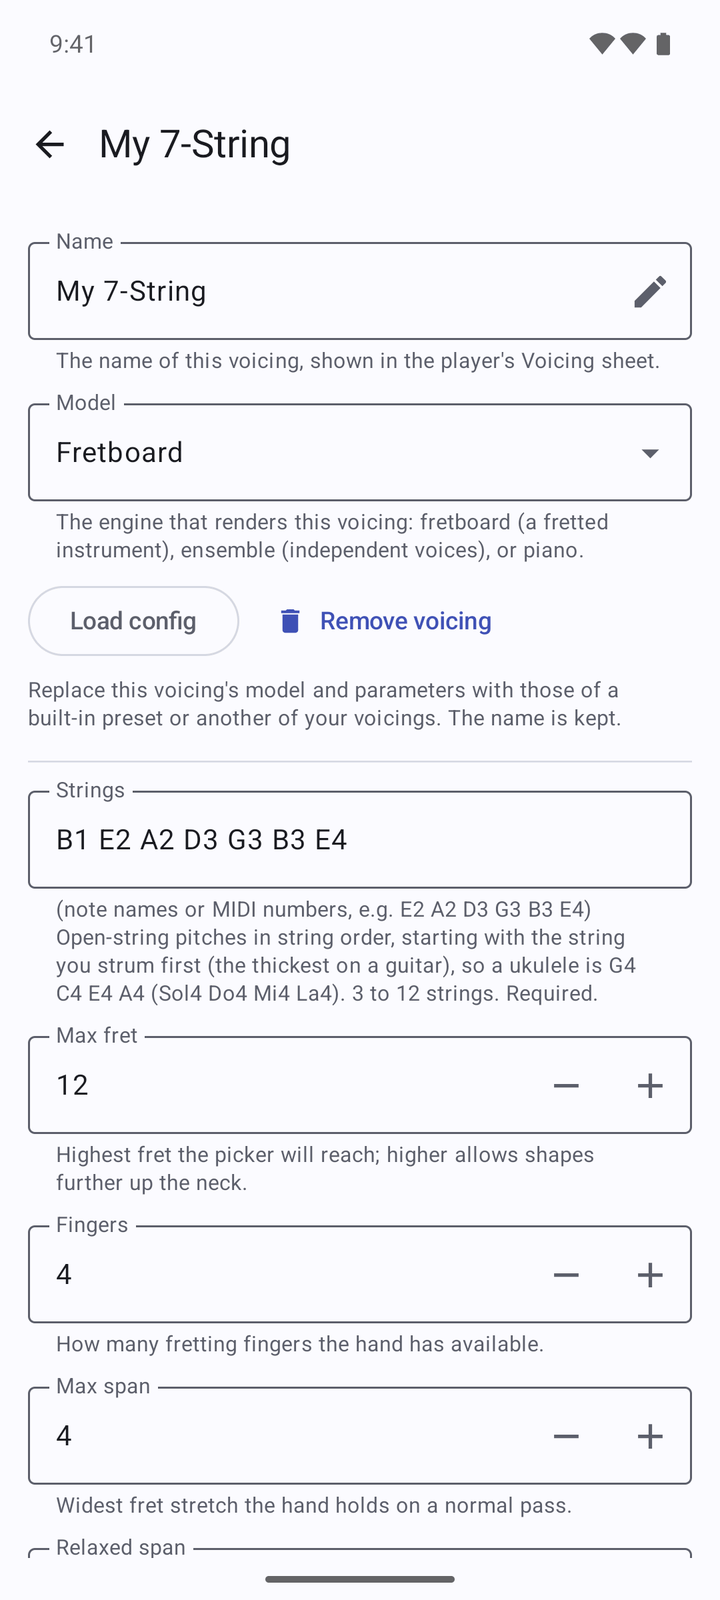
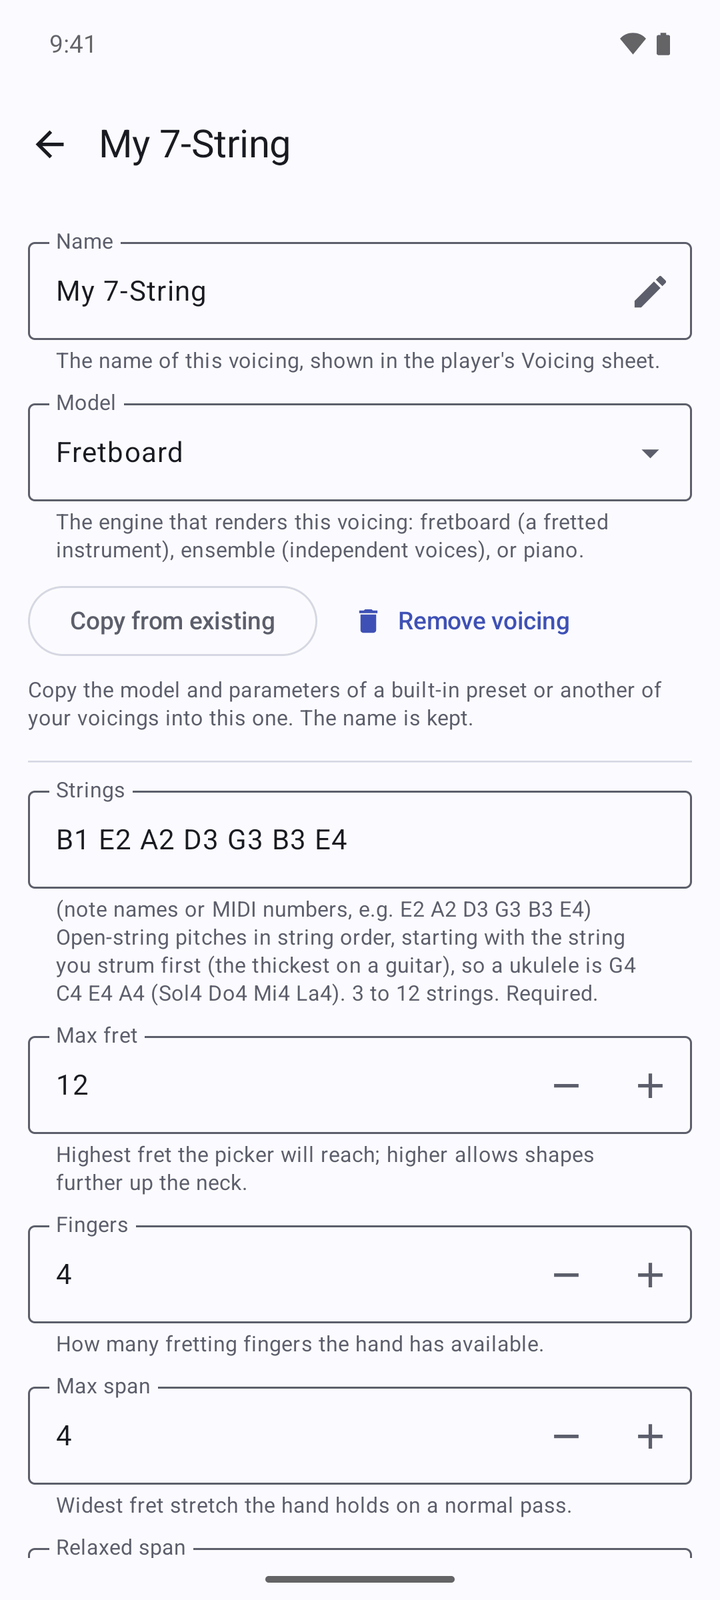
Android: shorter fretted-view reason so the toast shows it whole; help shots retaken (Playback settings, ensemble voices with reorder and gaps, voicing form with Copy from existing)

Changed region(s): [[0.0306, 0.375, 0.9167, 0.4688], [0.825, 0.0, 0.8556, 0.0312], [0.7028, 0.4375, 0.7333, 0.4688]]

diff --git a/src/viewmodels/chord_sheet_viewmodel.py b/src/viewmodels/chord_sheet_viewmodel.py
@@ -61,10 +61,10 @@ _SCROLL_EPSILON = 0.5    # px; scroll deltas smaller than this are treated as no
 
 # Display-zoom step/bounds for zoom-capable renderers (staff, piano roll, ...).
 #: Why the fretted views are off for a song without fingerings, per platform.
+#: Android shows it in a toast, which Android 12+ cuts off after two lines.
 _PICK_FRETTED_INSTRUMENT = {
     DESKTOP: "Pick a fretted instrument (e.g. Guitar) in Playback \u2192 Voicing to use this view.",
-    ANDROID: "Pick a fretted instrument (e.g. Guitar) with the player's Voicing button "
-             "to use this view.",
+    ANDROID: "Pick a fretted voicing, like Guitar, with the Voicing button.",
 }
 
 _ZOOM_STEP = 1.2   # multiplicative factor per zoom-in/out click

diff --git a/tests/test_chord_sheet_viewmodel.py b/tests/test_chord_sheet_viewmodel.py
@@ -1039,7 +1039,6 @@ def test_the_fretted_reason_per_platform():
     # Desktop: exactly the text it always had.
     assert reasons["desktop"] == ("Pick a fretted instrument (e.g. Guitar) in "
                                   "Playback → Voicing to use this view.")
-    assert reasons["android"] == ("Pick a fretted instrument (e.g. Guitar) with the "
-                                  "player's Voicing button to use this view.")
+    assert reasons["android"] == "Pick a fretted voicing, like Guitar, with the Voicing button."
     with pytest.raises(ValueError):
         ChordSheetViewModel(FakeConfig(), FakeAudio(), platform="ios")

diff --git a/android/tools/HELP_SHOTS.md b/android/tools/HELP_SHOTS.md
@@ -177,7 +177,7 @@ legend. Pages are named `file: section`.
 | `settings-general.png` | Settings › General: font family and size, chord notation, default key, show quick start at startup, number of recent files. (phone) | settings: General |
 | `settings-playback.png` | Settings › Playback: default BPM and time signature. (phone) | settings: Playback & Audio |
 | `settings-voicings.png` | Settings › Voicings on a phone: Add voicing and the custom voicings grouped by model (My 7-String under Fretboard). (phone) | settings: Voicings |
-| `settings-voicing-form.png` | The voicing form for My 7-String on a phone: Name, Model, Load config, Remove voicing, Strings (B1 E2 A2 D3 G3 B3 E4), Max fret, Fingers, spans…. (phone) | settings: Voicings; settings: Worked Example: A Seven-String Guitar |
+| `settings-voicing-form.png` | The voicing form for My 7-String on a phone: Name, Model, Copy from existing, Remove voicing, Strings (B1 E2 A2 D3 G3 B3 E4), Max fret, Fingers, spans…. (phone) | settings: Voicings; settings: Worked Example: A Seven-String Guitar |
 | `settings-voicing-ensemble.png` | The form of a custom ensemble (Jazz Vocal Trio) on a phone, scrolled to its Voices: the help lines, then one card per voice with Name, Low, High, Staff and ✕. (phone) | ensembles: Custom Ensembles |
 | `settings-voicings-tablet.png` | Settings › Voicings on a tablet: the list on the left and My 7-String's form on the right. (tablet, landscape) | settings: Voicings |
 | `quick-start.png` | Quick Start, page 1 of 7: Welcome, a highlighted snippet, Show at startup, Previous / Next. (phone) | getting_started: Opening the Application; interface: The Drawer |

diff --git a/help/ensembles.rst b/help/ensembles.rst
@@ -366,9 +366,9 @@ Custom Ensembles
 .. platform-figure:: settings-voicing-ensemble
    :platforms: android
    :alt: The Jazz Vocal Trio form scrolled to Voices: short help lines for
-         Name, Low, High and Staff, then a card per voice: Lead, A3 to F5,
-         and Harmony, F3 to D5, each with Staff set to Auto and an X to
-         remove it.
+         Name, Low, High, Staff and Max gap to next voice, then a card per
+         voice with up and down arrows and an X: Lead, A3 to F5, Staff Auto,
+         Max gap 12, and the top of Harmony's card.
 
    The voices of a custom ensemble, one card each.
 
